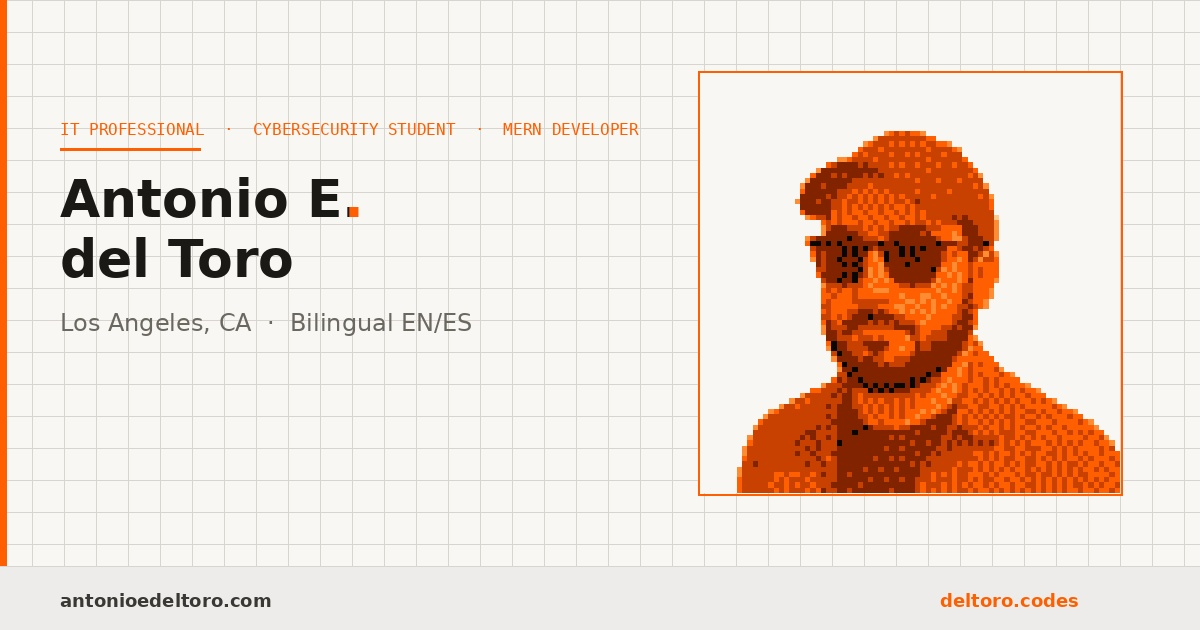
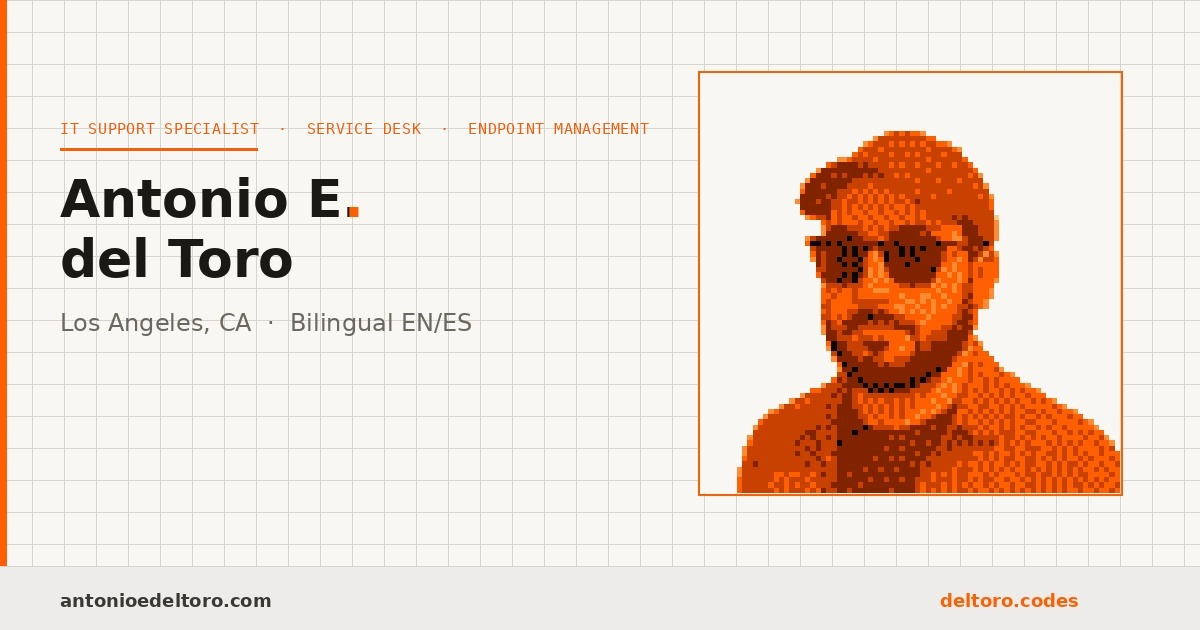
Reposition site around IT support
Hero, About, availability bar and contact now present an IT Support
Specialist (service desk, desktop support, endpoint management).
Cybersecurity credentials stay as supporting detail; SOC/transition
framing and the freelance call to action are gone. Experience moves
above Certifications and Projects. Title, meta, OG/Twitter, JSON-LD
and og-image updated. Date ranges use en dashes.

Claude-Session: https://claude.ai/code/session_01Sn67QX89jFAxY2Vq3Si2Kw

Changed region(s): [[0.0617, 0.181, 0.555, 0.2413]]

diff --git a/index.html b/index.html
@@ -8,10 +8,10 @@
 <meta http-equiv="Content-Security-Policy" content="default-src 'none'; script-src 'self'; style-src 'self'; font-src 'self'; img-src 'self' data:; manifest-src 'self'; form-action 'self'; base-uri 'none'; object-src 'none'; frame-src 'none'; worker-src 'none'; require-trusted-types-for 'script'; trusted-types 'none'; upgrade-insecure-requests">
 <meta name="referrer" content="strict-origin-when-cross-origin">
 
-<title>Antonio E. del Toro | IT Professional & Cybersecurity Student</title>
+<title>Antonio E. del Toro | IT Support Specialist in Los Angeles</title>
 
 <!-- Primary Meta -->
-<meta name="description" content="Antonio E. del Toro: bilingual IT professional, cybersecurity student, and self-taught MERN developer based in Los Angeles, CA.">
+<meta name="description" content="Antonio E. del Toro: bilingual IT Support Specialist in Los Angeles. Service desk, desktop support, and endpoint management. CompTIA A+, Network+, Security+, ITIL 4.">
 <meta name="author" content="Antonio E. del Toro">
 <meta name="robots" content="index, follow">
 <link rel="canonical" href="https://www.antonioedeltoro.com">
@@ -19,8 +19,8 @@
 <!-- Open Graph (Facebook, LinkedIn) -->
 <meta property="og:type" content="website">
 <meta property="og:url" content="https://www.antonioedeltoro.com">
-<meta property="og:title" content="Antonio E. del Toro | IT Professional & Cybersecurity Student">
-<meta property="og:description" content="Bilingual IT professional, cybersecurity student, and self-taught MERN developer based in Los Angeles, CA.">
+<meta property="og:title" content="Antonio E. del Toro | IT Support Specialist in Los Angeles">
+<meta property="og:description" content="Bilingual IT Support Specialist in Los Angeles. Service desk, desktop support, and endpoint management. CompTIA A+, Network+, Security+, ITIL 4.">
 <meta property="og:image" content="https://www.antonioedeltoro.com/og-image.jpg">
 <meta property="og:image:width" content="1200">
 <meta property="og:image:height" content="630">
@@ -30,8 +30,8 @@
 <!-- Twitter Card -->
 <meta name="twitter:card" content="summary_large_image">
 <meta name="twitter:url" content="https://www.antonioedeltoro.com">
-<meta name="twitter:title" content="Antonio E. del Toro | IT Professional & Cybersecurity Student">
-<meta name="twitter:description" content="Bilingual IT professional, cybersecurity student, and self-taught MERN developer based in Los Angeles, CA.">
+<meta name="twitter:title" content="Antonio E. del Toro | IT Support Specialist in Los Angeles">
+<meta name="twitter:description" content="Bilingual IT Support Specialist in Los Angeles. Service desk, desktop support, and endpoint management. CompTIA A+, Network+, Security+, ITIL 4.">
 <meta name="twitter:image" content="https://www.antonioedeltoro.com/og-image.jpg">
 <meta name="twitter:creator" content="@antonioedeltoro">
 
@@ -43,8 +43,8 @@
   "name": "Antonio E. del Toro",
   "url": "https://www.antonioedeltoro.com",
   "image": "https://www.antonioedeltoro.com/og-image.jpg",
-  "jobTitle": "IT Professional & Cybersecurity Student",
-  "description": "Bilingual IT professional, cybersecurity student, and self-taught MERN developer based in Los Angeles, CA.",
+  "jobTitle": "IT Support Specialist",
+  "description": "Bilingual IT Support Specialist in Los Angeles. Service desk, desktop support, and endpoint management. CompTIA A+, Network+, Security+, ITIL 4.",
   "address": {
     "@type": "PostalAddress",
     "addressLocality": "Los Angeles",
@@ -96,7 +96,7 @@
 
 <div class="avail-bar">
   <div class="avail-dot"></div>
-  <span><span class="t" data-l="en">Transitioning into cybersecurity · open to entry-level sec roles and freelance work</span><span class="t" data-l="es">En transición hacia la ciberseguridad · abierto a puestos de seguridad de nivel inicial y trabajo freelance</span></span>
+  <span><span class="t" data-l="en">Open to IT Support, Service Desk, Desktop Support, and Endpoint Support roles · Greater Los Angeles · On-site, hybrid, or remote</span><span class="t" data-l="es">Disponible para puestos de Soporte de TI, Mesa de Servicio, Soporte de Escritorio y Soporte de Endpoints · Gran Los Ángeles · Presencial, híbrido o remoto</span></span>
 </div>
 
 <div id="site-nav"></div>
@@ -107,7 +107,7 @@
     <div class="container">
       <div class="hero-inner">
         <div class="hero-text">
-          <div class="hero-tag"><span class="t" data-l="en">IT Professional · Cybersecurity Student · MERN Developer</span><span class="t" data-l="es">Profesional de TI · Estudiante de Ciberseguridad · Desarrollador MERN</span></div>
+          <div class="hero-tag"><span class="t" data-l="en">IT Support Specialist · Service Desk · Endpoint Management</span><span class="t" data-l="es">Especialista en Soporte de TI · Mesa de Servicio · Gestión de Endpoints</span></div>
           <h1><span class="t" data-l="en">Breaking things down,<br>then <em>building them better.</em></span><span class="t" data-l="es">Desarmando las cosas,<br>para luego <em>construirlas mejor.</em></span></h1>
           <div class="hero-image-mobile-wrap">
             <div class="hero-image-wrap">
@@ -115,9 +115,9 @@
               <div class="scanline"></div>
             </div>
           </div>
-          <p class="hero-sub"><span class="t" data-l="en">I'm Antonio, a bilingual IT professional and self-taught developer with a thing for how systems work under the hood. I support the people and systems that keep organizations running, I build for the web, and I'm deep into cybersecurity.</span><span class="t" data-l="es">Soy Antonio, un profesional de TI bilingüe y desarrollador autodidacta al que le fascina cómo funcionan los sistemas por dentro. Doy soporte a las personas y los sistemas que mantienen en marcha a las organizaciones, desarrollo para la web y estoy de lleno en la ciberseguridad.</span></p>
+          <p class="hero-sub"><span class="t" data-l="en">I'm Antonio, a bilingual IT Support Specialist in Los Angeles. Most recently I worked the service desk for Public Storage, supporting about 6,000 locations: ServiceNow queues, endpoint management in Cisco Meraki Systems Manager and Tanium, and site rollouts for a 1,000-location acquisition. I also build for the web.</span><span class="t" data-l="es">Soy Antonio, especialista bilingüe en soporte de TI en Los Ángeles. Mi puesto más reciente fue en la mesa de servicio de Public Storage, dando soporte a unas 6,000 ubicaciones: colas de ServiceNow, gestión de endpoints con Cisco Meraki Systems Manager y Tanium, y la puesta en marcha de sitios para una adquisición de 1,000 ubicaciones. También desarrollo para la web.</span></p>
           <div class="hero-actions">
-            <a href="#projects" class="btn-primary"><span class="t" data-l="en">See my work <i class="ti ti-arrow-down"></i></span><span class="t" data-l="es">Ver mi trabajo <i class="ti ti-arrow-down"></i></span></a>
+            <a href="#experience" class="btn-primary"><span class="t" data-l="en">See my experience <i class="ti ti-arrow-down"></i></span><span class="t" data-l="es">Ver mi experiencia <i class="ti ti-arrow-down"></i></span></a>
             <a href="#contact" class="btn-secondary"><span class="t" data-l="en">Get in touch <i class="ti ti-arrow-down"></i></span><span class="t" data-l="es">Contáctame <i class="ti ti-arrow-down"></i></span></a>
           </div>
         </div>
@@ -140,10 +140,29 @@
       <div class="about-grid">
         <div class="about-text fade-in">
           <p><span class="t" data-l="en">I got into tech the way most self-taught people do: by breaking something and refusing to stop until I understood why. Before IT, I spent over a decade as a Certified Court Interpreter in Chicago, navigating high-pressure environments where clarity and accuracy weren't optional. That discipline carried over.</span><span class="t" data-l="es">Entré en la tecnología como la mayoría de los autodidactas: rompiendo algo y negándome a parar hasta entender por qué. Antes de TI, pasé más de una década como Intérprete Judicial Certificado en Chicago, desenvolviéndome en entornos de alta presión donde la claridad y la precisión no eran opcionales. Esa disciplina me acompañó.</span></p>
-          <p><span class="t" data-l="en">It led to CompTIA certifications, a freelance web dev practice under <a href="https://www.deltoro.codes" target="_blank" rel="noopener">deltoro.codes</a>, and eventually a service desk role supporting users and systems in corporate environments. Now I'm channeling that same curiosity into cybersecurity and information assurance.</span><span class="t" data-l="es">Me llevó a certificaciones de CompTIA, a una práctica freelance de desarrollo web bajo <a href="https://www.deltoro.codes" target="_blank" rel="noopener">deltoro.codes</a>, y con el tiempo a un puesto en la mesa de servicio dando soporte a usuarios y sistemas en entornos corporativos. Ahora canalizo esa misma curiosidad hacia la ciberseguridad y la seguridad de la información.</span></p>
-          <p><span class="t" data-l="en">I believe the best security people are the ones who've sat on both sides. If you've built things, you know how they break. Based in Los Angeles. Bilingual in English and Spanish.</span><span class="t" data-l="es">Creo que las mejores personas en seguridad son las que han estado en ambos lados. Quien ha construido cosas sabe cómo se rompen. Radicado en Los Ángeles. Bilingüe en inglés y español.</span></p>
+          <p><span class="t" data-l="en">It led to CompTIA certifications, a web development practice under <a href="https://www.deltoro.codes" target="_blank" rel="noopener">deltoro.codes</a>, and IT support. As a Service Desk Analyst for Public Storage, I worked ServiceNow incident and request queues under ITIL-aligned processes, 16 to 30 tickets a day, consistently meeting SLA targets. I administered devices in Cisco Meraki Systems Manager, deployed software, drivers, and patches through Tanium, and triaged Okta SSO access issues, verifying identity before escalating.</span><span class="t" data-l="es">Me llevó a certificaciones de CompTIA, a una práctica de desarrollo web bajo <a href="https://www.deltoro.codes" target="_blank" rel="noopener">deltoro.codes</a> y al soporte de TI. Como Analista de Mesa de Servicio para Public Storage, atendí colas de incidentes y solicitudes en ServiceNow bajo procesos alineados con ITIL, de 16 a 30 tickets al día, cumpliendo de forma constante los objetivos de SLA. Administré dispositivos en Cisco Meraki Systems Manager, desplegué software, controladores y parches con Tanium, e hice el triage de problemas de acceso en Okta SSO, verificando la identidad antes de escalar.</span></p>
+          <p><span class="t" data-l="en">Before that, at FUJIFILM Business Innovation, I handled onboarding and offboarding, account provisioning and access revocation, and SAP Concur, SharePoint, DocuSign, and mobile device support. My Security+ and CSIS certifications, and the BS in Cybersecurity and Information Assurance I'm completing at WGU (expected April 2027), shape how I support users: verify first, document everything. Based in Los Angeles. Native bilingual in English and Spanish.</span><span class="t" data-l="es">Antes, en FUJIFILM Business Innovation, me encargué de altas y bajas de personal, aprovisionamiento de cuentas y revocación de accesos, y soporte de SAP Concur, SharePoint, DocuSign y dispositivos móviles. Mis certificaciones Security+ y CSIS, y la licenciatura en Ciberseguridad y Seguridad de la Información que curso en WGU (prevista para abril de 2027), definen cómo doy soporte: primero verificar, documentarlo todo. Radicado en Los Ángeles. Bilingüe nativo en inglés y español.</span></p>
         </div>
         <div class="skills-block fade-in">
+          <div>
+            <div class="skill-group-label"><span class="t" data-l="en">Support & Endpoints</span><span class="t" data-l="es">Soporte y Endpoints</span></div>
+            <div class="skill-tags">
+              <span class="skill-tag"><span class="t" data-l="en">Help Desk</span><span class="t" data-l="es">Mesa de ayuda</span></span>
+              <span class="skill-tag">ServiceNow</span>
+              <span class="skill-tag">Cisco Meraki Systems Manager</span>
+              <span class="skill-tag">Tanium</span>
+              <span class="skill-tag"><span class="t" data-l="en">Endpoint management</span><span class="t" data-l="es">Gestión de endpoints</span></span>
+              <span class="skill-tag"><span class="t" data-l="en">Mobile device support</span><span class="t" data-l="es">Soporte de dispositivos móviles</span></span>
+              <span class="skill-tag">Okta SSO</span>
+              <span class="skill-tag"><span class="t" data-l="en">POS &amp; payment systems</span><span class="t" data-l="es">POS y sistemas de pago</span></span>
+              <span class="skill-tag">Microsoft 365</span>
+              <span class="skill-tag">SAP Concur</span>
+              <span class="skill-tag">SharePoint</span>
+              <span class="skill-tag">DocuSign</span>
+              <span class="skill-tag"><span class="t" data-l="en">Ticketing Systems</span><span class="t" data-l="es">Sistemas de tickets</span></span>
+              <span class="skill-tag"><span class="t" data-l="en">Onboarding / Offboarding</span><span class="t" data-l="es">Alta / Baja de usuarios</span></span>
+            </div>
+          </div>
           <div>
             <div class="skill-group-label"><span class="t" data-l="en">Networking & Security</span><span class="t" data-l="es">Redes y Seguridad</span></div>
             <div class="skill-tags">
@@ -158,20 +177,10 @@
               <span class="skill-tag">DNS</span>
               <span class="skill-tag">DHCP</span>
               <span class="skill-tag">VPN</span>
+              <span class="skill-tag">Cisco Meraki</span>
+              <span class="skill-tag">VMware VeloCloud SD-WAN</span>
               <span class="skill-tag"><span class="t" data-l="en">Access management</span><span class="t" data-l="es">Gestión de accesos</span></span>
               <span class="skill-tag"><span class="t" data-l="en">Network troubleshooting</span><span class="t" data-l="es">Resolución de problemas de red</span></span>
-            </div>
-          </div>
-          <div>
-            <div class="skill-group-label"><span class="t" data-l="en">Support & Ops</span><span class="t" data-l="es">Soporte y Operaciones</span></div>
-            <div class="skill-tags">
-              <span class="skill-tag"><span class="t" data-l="en">Help Desk</span><span class="t" data-l="es">Mesa de ayuda</span></span>
-              <span class="skill-tag">Microsoft 365</span>
-              <span class="skill-tag">SAP Concur</span>
-              <span class="skill-tag">SharePoint</span>
-              <span class="skill-tag">DocuSign</span>
-              <span class="skill-tag"><span class="t" data-l="en">Ticketing Systems</span><span class="t" data-l="es">Sistemas de tickets</span></span>
-              <span class="skill-tag"><span class="t" data-l="en">Onboarding / Offboarding</span><span class="t" data-l="es">Alta / Baja de usuarios</span></span>
             </div>
           </div>
           <div>
@@ -193,6 +202,73 @@
               <span class="skill-tag"><span class="t" data-l="en">English (native)</span><span class="t" data-l="es">Inglés (nativo)</span></span>
               <span class="skill-tag"><span class="t" data-l="en">Spanish (native)</span><span class="t" data-l="es">Español (nativo)</span></span>
             </div>
+          </div>
+        </div>
+      </div>
+    </div>
+  </section>
+
+  <!-- EXPERIENCE -->
+  <section id="experience">
+    <div class="container">
+      <div class="section-header">
+        <h2 class="section-title"><span class="t" data-l="en">Experience</span><span class="t" data-l="es">Experiencia</span></h2>
+      </div>
+      <div class="experience-list">
+        <div class="exp-item fade-in">
+          <div class="exp-date"><span class="t" data-l="en">2024 – Present</span><span class="t" data-l="es">2024 – Presente</span></div>
+          <div>
+            <h3 class="exp-role"><span class="t" data-l="en">Full-Stack Web Developer</span><span class="t" data-l="es">Desarrollador Web Full-Stack</span></h3>
+            <div class="exp-company"><span class="t" data-l="en">deltoro.codes · Remote</span><span class="t" data-l="es">deltoro.codes · Remoto</span></div>
+            <ul class="exp-bullets">
+              <li><span class="t" data-l="en">Build and maintain full-stack web applications for clients using the MERN stack</span><span class="t" data-l="es">Desarrollo y mantengo aplicaciones web full-stack para clientes usando el stack MERN</span></li>
+              <li><span class="t" data-l="en">Troubleshoot website, hosting, and user-related issues across client projects</span><span class="t" data-l="es">Resuelvo problemas de sitios web, hosting y usuarios en los proyectos de clientes</span></li>
+              <li><span class="t" data-l="en">Guide clients through system workflows and create documentation to reduce repeat issues</span><span class="t" data-l="es">Guío a los clientes por los flujos de trabajo del sistema y creo documentación para reducir problemas recurrentes</span></li>
+              <li><span class="t" data-l="en">Diagnose technical issues independently using documentation and online resources</span><span class="t" data-l="es">Diagnostico problemas técnicos de forma independiente usando documentación y recursos en línea</span></li>
+            </ul>
+          </div>
+        </div>
+        <div class="exp-item fade-in">
+          <div class="exp-date"><span class="t" data-l="en">May 2026 – Oct 2026</span><span class="t" data-l="es">mayo 2026 – octubre 2026</span></div>
+          <div>
+            <h3 class="exp-role"><span class="t" data-l="en">Service Desk Analyst</span><span class="t" data-l="es">Analista de Mesa de Servicio</span></h3>
+            <div class="exp-company"><span class="t" data-l="en">Thunderhawk Technology Partners · Contract · Glendale, CA · Onsite &rarr; Remote</span><span class="t" data-l="es">Thunderhawk Technology Partners · Contrato · Glendale, CA · Presencial &rarr; Remoto</span></div>
+            <ul class="exp-bullets">
+              <li><span class="t" data-l="en">Supported about 6,000 Public Storage locations, including the integration of about 1,000 acquired locations</span><span class="t" data-l="es">Di soporte a unas 6,000 ubicaciones de Public Storage, incluida la integración de unas 1,000 ubicaciones adquiridas</span></li>
+              <li><span class="t" data-l="en">Worked ServiceNow incident and request queues under ITIL-aligned processes, 16 to 30 tickets a day, consistently meeting SLA targets</span><span class="t" data-l="es">Atendí colas de incidentes y solicitudes en ServiceNow bajo procesos alineados con ITIL, de 16 a 30 tickets al día, cumpliendo de forma constante los objetivos de SLA</span></li>
+              <li><span class="t" data-l="en">Triaged first-line authentication and access issues in an Okta SSO environment, verifying identity and isolating password state, MFA factor, or app assignment before escalating with documented findings</span><span class="t" data-l="es">Realicé el triage de primer nivel de problemas de autenticación y acceso en un entorno Okta SSO, verificando la identidad y aislando el estado de la contraseña, el factor MFA o la asignación de aplicaciones antes de escalar con hallazgos documentados</span></li>
+              <li><span class="t" data-l="en">Administered devices in Cisco Meraki Systems Manager (enrollment, configuration profiles, app updates) and deployed software, drivers, and patches through Tanium</span><span class="t" data-l="es">Administré dispositivos en Cisco Meraki Systems Manager (inscripción, perfiles de configuración, actualizaciones de aplicaciones) y desplegué software, controladores y parches con Tanium</span></li>
+              <li><span class="t" data-l="en">Owned end-to-end site readiness for 18 locations in phase one of a 1,000-site acquisition integration, coordinating network, workstation, and PCI DSS-scoped payment hardware installs</span><span class="t" data-l="es">Gestioné de principio a fin la preparación de 18 ubicaciones en la primera fase de una integración de 1,000 sitios adquiridos, coordinando la instalación de hardware de red, estaciones de trabajo y pagos en un entorno de alcance PCI DSS</span></li>
+              <li><span class="t" data-l="en">Coordinated access point installs across 150 properties in phase two of the integration</span><span class="t" data-l="es">Coordiné la instalación de puntos de acceso en 150 propiedades durante la segunda fase de la integración</span></li>
+              <li><span class="t" data-l="en">Supported POS terminals, registers, and payment gateways in a PCI DSS-scoped environment, along with Cisco Meraki networking and VMware VeloCloud SD-WAN across distributed sites</span><span class="t" data-l="es">Di soporte a terminales POS, cajas registradoras y pasarelas de pago en un entorno de alcance PCI DSS, además de redes Cisco Meraki y VMware VeloCloud SD-WAN en sitios distribuidos</span></li>
+            </ul>
+          </div>
+        </div>
+        <div class="exp-item fade-in">
+          <div class="exp-date">2022 – 2023</div>
+          <div>
+            <h3 class="exp-role"><span class="t" data-l="en">Executive Administrative Assistant</span><span class="t" data-l="es">Asistente Administrativo Ejecutivo</span></h3>
+            <div class="exp-company"><span class="t" data-l="en">FUJIFILM Business Innovation Corp. · Hanover Park, IL · Hybrid &rarr; Remote</span><span class="t" data-l="es">FUJIFILM Business Innovation Corp. · Hanover Park, IL · Híbrido &rarr; Remoto</span></div>
+            <ul class="exp-bullets">
+              <li><span class="t" data-l="en">Handled onboarding and offboarding with IT and HR, including account provisioning and access revocation</span><span class="t" data-l="es">Gestioné altas y bajas de personal junto con TI y Recursos Humanos, incluido el aprovisionamiento de cuentas y la revocación de accesos</span></li>
+              <li><span class="t" data-l="en">Troubleshot SAP Concur access and user issues in a high-volume corporate environment</span><span class="t" data-l="es">Resolví problemas de acceso y de usuarios en SAP Concur en un entorno corporativo de alto volumen</span></li>
+              <li><span class="t" data-l="en">Supported SharePoint, DocuSign, and internal tools across the organization</span><span class="t" data-l="es">Di soporte a SharePoint, DocuSign y herramientas internas en toda la organización</span></li>
+              <li><span class="t" data-l="en">Provided mobile device support for staff</span><span class="t" data-l="es">Brindé soporte de dispositivos móviles al personal</span></li>
+              <li><span class="t" data-l="en">Resolved user access and reporting discrepancies in expense management systems</span><span class="t" data-l="es">Resolví discrepancias de acceso de usuarios y de reportes en sistemas de gestión de gastos</span></li>
+            </ul>
+          </div>
+        </div>
+        <div class="exp-item fade-in">
+          <div class="exp-date">2013 – 2022</div>
+          <div>
+            <h3 class="exp-role"><span class="t" data-l="en">Certified Court Interpreter</span><span class="t" data-l="es">Intérprete Judicial Certificado</span></h3>
+            <div class="exp-company"><span class="t" data-l="en">Cook County Office of the Chief Judge · Chicago, IL · Onsite &rarr; Hybrid</span><span class="t" data-l="es">Cook County Office of the Chief Judge · Chicago, IL · Presencial &rarr; Híbrido</span></div>
+            <ul class="exp-bullets">
+              <li><span class="t" data-l="en">Provided precise English/Spanish interpretation across criminal, civil, and family court proceedings</span><span class="t" data-l="es">Proporcioné interpretación precisa inglés/español en procedimientos judiciales penales, civiles y de familia</span></li>
+              <li><span class="t" data-l="en">Maintained strict confidentiality, impartiality, and accuracy in high-pressure legal environments</span><span class="t" data-l="es">Mantuve estricta confidencialidad, imparcialidad y precisión en entornos legales de alta presión</span></li>
+              <li><span class="t" data-l="en">Facilitated clear communication between Spanish-speaking individuals and the judicial system</span><span class="t" data-l="es">Facilité la comunicación clara entre personas hispanohablantes y el sistema judicial</span></li>
+              <li><span class="t" data-l="en">Illinois Supreme Court Certified · <a href="https://publicapps.illinoiscourts.gov/apex/f?p=303:18:::::P18_IDINTERPRETER,P18_READMODE:183,1" target="_blank" rel="noopener" class="credential-link">Credential #1190</a> · occasional assignments accepted</span><span class="t" data-l="es">Certificado por la Corte Suprema de Illinois · <a href="https://publicapps.illinoiscourts.gov/apex/f?p=303:18:::::P18_IDINTERPRETER,P18_READMODE:183,1" target="_blank" rel="noopener" class="credential-link">Credencial n.º 1190</a> · acepto asignaciones ocasionales</span></li>
+            </ul>
           </div>
         </div>
       </div>
@@ -377,70 +453,6 @@
     </div>
   </section>
 
-  <!-- EXPERIENCE -->
-  <section id="experience">
-    <div class="container">
-      <div class="section-header">
-        <h2 class="section-title"><span class="t" data-l="en">Experience</span><span class="t" data-l="es">Experiencia</span></h2>
-      </div>
-      <div class="experience-list">
-        <div class="exp-item fade-in">
-          <div class="exp-date"><span class="t" data-l="en">2024 — Present</span><span class="t" data-l="es">2024 — Presente</span></div>
-          <div>
-            <h3 class="exp-role"><span class="t" data-l="en">Full-Stack Web Developer</span><span class="t" data-l="es">Desarrollador Web Full-Stack</span></h3>
-            <div class="exp-company"><span class="t" data-l="en">deltoro.codes · Remote</span><span class="t" data-l="es">deltoro.codes · Remoto</span></div>
-            <ul class="exp-bullets">
-              <li><span class="t" data-l="en">Build and maintain full-stack web applications for clients using the MERN stack</span><span class="t" data-l="es">Desarrollo y mantengo aplicaciones web full-stack para clientes usando el stack MERN</span></li>
-              <li><span class="t" data-l="en">Troubleshoot website, hosting, and user-related issues across client projects</span><span class="t" data-l="es">Resuelvo problemas de sitios web, hosting y usuarios en los proyectos de clientes</span></li>
-              <li><span class="t" data-l="en">Guide clients through system workflows and create documentation to reduce repeat issues</span><span class="t" data-l="es">Guío a los clientes por los flujos de trabajo del sistema y creo documentación para reducir problemas recurrentes</span></li>
-              <li><span class="t" data-l="en">Diagnose technical issues independently using documentation and online resources</span><span class="t" data-l="es">Diagnostico problemas técnicos de forma independiente usando documentación y recursos en línea</span></li>
-            </ul>
-          </div>
-        </div>
-        <div class="exp-item fade-in">
-          <div class="exp-date"><span class="t" data-l="en">May 2026 — Oct 2026</span><span class="t" data-l="es">mayo 2026 — octubre 2026</span></div>
-          <div>
-            <h3 class="exp-role"><span class="t" data-l="en">Service Desk Analyst</span><span class="t" data-l="es">Analista de Mesa de Servicio</span></h3>
-            <div class="exp-company"><span class="t" data-l="en">Thunderhawk Technology Partners · Contract · Glendale, CA · Onsite &rarr; Remote</span><span class="t" data-l="es">Thunderhawk Technology Partners · Contrato · Glendale, CA · Presencial &rarr; Remoto</span></div>
-            <ul class="exp-bullets">
-              <li><span class="t" data-l="en">Triaged first-line authentication and access issues in an Okta SSO environment for Public Storage, isolating password, MFA, or app-assignment root cause before escalating with documented findings</span><span class="t" data-l="es">Realicé el triage de primer nivel de problemas de autenticación y acceso en un entorno Okta SSO para Public Storage, aislando la causa raíz (contraseña, MFA o asignación de aplicaciones) antes de escalar con hallazgos documentados</span></li>
-              <li><span class="t" data-l="en">Verified user identity against policy before credential and MFA resets to harden the service desk against social engineering, and remediated endpoints via Tanium across a distributed environment</span><span class="t" data-l="es">Verifiqué la identidad del usuario según la política antes de restablecer credenciales y MFA para reforzar la mesa de servicio contra la ingeniería social, y remedié endpoints con Tanium en un entorno distribuido</span></li>
-              <li><span class="t" data-l="en">Owned end-to-end site readiness for 18 locations in phase one of a 1,000-site acquisition integration, coordinating network, workstation, and PCI DSS-scoped payment hardware installs</span><span class="t" data-l="es">Gestioné de principio a fin la preparación de 18 ubicaciones en la primera fase de una integración de 1,000 sitios adquiridos, coordinando la instalación de hardware de red, estaciones de trabajo y pagos en un entorno de alcance PCI DSS</span></li>
-              <li><span class="t" data-l="en">Coordinated access point installs across 150 properties in phase two of the integration</span><span class="t" data-l="es">Coordiné la instalación de puntos de acceso en 150 propiedades durante la segunda fase de la integración</span></li>
-              <li><span class="t" data-l="en">Managed ServiceNow incident and service-request queues under ITIL-aligned processes, supporting Cisco Meraki and VMware VeloCloud SD-WAN across distributed retail sites</span><span class="t" data-l="es">Administré las colas de incidentes y solicitudes de servicio en ServiceNow bajo procesos alineados con ITIL, dando soporte a Cisco Meraki y VMware VeloCloud SD-WAN en sitios minoristas distribuidos</span></li>
-            </ul>
-          </div>
-        </div>
-        <div class="exp-item fade-in">
-          <div class="exp-date">2022 — 2023</div>
-          <div>
-            <h3 class="exp-role"><span class="t" data-l="en">Executive Administrative Assistant to the CEO</span><span class="t" data-l="es">Asistente Administrativo Ejecutivo del CEO</span></h3>
-            <div class="exp-company"><span class="t" data-l="en">FUJIFILM Business Innovation Corp. · Hanover Park, IL · Hybrid &rarr; Remote</span><span class="t" data-l="es">FUJIFILM Business Innovation Corp. · Hanover Park, IL · Híbrido &rarr; Remoto</span></div>
-            <ul class="exp-bullets">
-              <li><span class="t" data-l="en">Coordinated onboarding/offboarding and system access with IT and HR</span><span class="t" data-l="es">Coordiné altas y bajas de personal y accesos a sistemas junto con TI y Recursos Humanos</span></li>
-              <li><span class="t" data-l="en">Troubleshot SAP Concur access and user issues in a high-volume corporate environment</span><span class="t" data-l="es">Resolví problemas de acceso y de usuarios en SAP Concur en un entorno corporativo de alto volumen</span></li>
-              <li><span class="t" data-l="en">Supported SharePoint, DocuSign, and internal tools across the organization</span><span class="t" data-l="es">Di soporte a SharePoint, DocuSign y herramientas internas en toda la organización</span></li>
-              <li><span class="t" data-l="en">Resolved user access and reporting discrepancies in expense management systems</span><span class="t" data-l="es">Resolví discrepancias de acceso de usuarios y de reportes en sistemas de gestión de gastos</span></li>
-            </ul>
-          </div>
-        </div>
-        <div class="exp-item fade-in">
-          <div class="exp-date">2013 — 2022</div>
-          <div>
-            <h3 class="exp-role"><span class="t" data-l="en">Certified Court Interpreter</span><span class="t" data-l="es">Intérprete Judicial Certificado</span></h3>
-            <div class="exp-company"><span class="t" data-l="en">Cook County Office of the Chief Judge · Chicago, IL · Onsite &rarr; Hybrid</span><span class="t" data-l="es">Cook County Office of the Chief Judge · Chicago, IL · Presencial &rarr; Híbrido</span></div>
-            <ul class="exp-bullets">
-              <li><span class="t" data-l="en">Provided precise English/Spanish interpretation across criminal, civil, and family court proceedings</span><span class="t" data-l="es">Proporcioné interpretación precisa inglés/español en procedimientos judiciales penales, civiles y de familia</span></li>
-              <li><span class="t" data-l="en">Maintained strict confidentiality, impartiality, and accuracy in high-pressure legal environments</span><span class="t" data-l="es">Mantuve estricta confidencialidad, imparcialidad y precisión en entornos legales de alta presión</span></li>
-              <li><span class="t" data-l="en">Facilitated clear communication between Spanish-speaking individuals and the judicial system</span><span class="t" data-l="es">Facilité la comunicación clara entre personas hispanohablantes y el sistema judicial</span></li>
-              <li><span class="t" data-l="en">Illinois Supreme Court Certified · <a href="https://publicapps.illinoiscourts.gov/apex/f?p=303:18:::::P18_IDINTERPRETER,P18_READMODE:183,1" target="_blank" rel="noopener" class="credential-link">Credential #1190</a> · occasional assignments accepted</span><span class="t" data-l="es">Certificado por la Corte Suprema de Illinois · <a href="https://publicapps.illinoiscourts.gov/apex/f?p=303:18:::::P18_IDINTERPRETER,P18_READMODE:183,1" target="_blank" rel="noopener" class="credential-link">Credencial n.º 1190</a> · acepto asignaciones ocasionales</span></li>
-            </ul>
-          </div>
-        </div>
-      </div>
-    </div>
-  </section>
-
   <!-- EDUCATION -->
   <section id="education">
     <div class="container">
@@ -449,35 +461,35 @@
       </div>
       <div class="education-list">
         <div class="edu-item fade-in">
-          <div class="edu-date"><span class="t" data-l="en">2025 — 2027 (expected)</span><span class="t" data-l="es">2025 — 2027 (previsto)</span></div>
+          <div class="edu-date"><span class="t" data-l="en">2025 – 2027 (expected)</span><span class="t" data-l="es">2025 – 2027 (previsto)</span></div>
           <div>
             <h3 class="edu-degree"><span class="t" data-l="en">BS, Cybersecurity & Information Assurance</span><span class="t" data-l="es">Lic. en Ciberseguridad y Seguridad de la Información</span></h3>
             <div class="edu-school">Western Governors University</div>
           </div>
         </div>
         <div class="edu-item fade-in">
-          <div class="edu-date">2018 — 2022</div>
+          <div class="edu-date">2018 – 2022</div>
           <div>
             <h3 class="edu-degree"><span class="t" data-l="en">MA, Latin American Literature & Culture</span><span class="t" data-l="es">Maestría en Literatura y Cultura Latinoamericana</span></h3>
             <div class="edu-school">Northeastern Illinois University</div>
           </div>
         </div>
         <div class="edu-item fade-in">
-          <div class="edu-date">2014 — 2017</div>
+          <div class="edu-date">2014 – 2017</div>
           <div>
             <h3 class="edu-degree"><span class="t" data-l="en">BA, Spanish Language & Literature</span><span class="t" data-l="es">Lic. en Lengua y Literatura Española</span></h3>
             <div class="edu-school">Northeastern Illinois University</div>
           </div>
         </div>
         <div class="edu-item fade-in">
-          <div class="edu-date">2011 — 2012</div>
+          <div class="edu-date">2011 – 2012</div>
           <div>
             <h3 class="edu-degree"><span class="t" data-l="en">Certificate, Legal Interpreting</span><span class="t" data-l="es">Certificado en Interpretación Legal</span></h3>
             <div class="edu-school">Waubonsee Community College</div>
           </div>
         </div>
         <div class="edu-item fade-in">
-          <div class="edu-date">2005 — 2006</div>
+          <div class="edu-date">2005 – 2006</div>
           <div>
             <h3 class="edu-degree"><span class="t" data-l="en">Certificate, Web Design & Multimedia</span><span class="t" data-l="es">Certificado en Diseño Web y Multimedia</span></h3>
             <div class="edu-school">Waubonsee Community College</div>
@@ -493,7 +505,7 @@
       <div class="section-header">
         <h2 class="section-title"><span class="t" data-l="en">Contact</span><span class="t" data-l="es">Contacto</span></h2>
       </div>
-      <p class="contact-intro"><span class="t" data-l="en">Let's talk, whether it's a security role, a freelance project, or just to connect.</span><span class="t" data-l="es">Hablemos, ya sea sobre un puesto en seguridad, un proyecto freelance o simplemente para conectar.</span></p>
+      <p class="contact-intro"><span class="t" data-l="en">I'm open to IT Support Specialist, Service Desk Analyst, Desktop Support, and Endpoint Support roles in greater Los Angeles, on-site, hybrid, or remote. Send me a message.</span><span class="t" data-l="es">Estoy disponible para puestos de Especialista en Soporte de TI, Analista de Mesa de Servicio, Soporte de Escritorio y Soporte de Endpoints en el área de Los Ángeles, ya sea presencial, híbrido o remoto. Envíame un mensaje.</span></p>
       <div class="contact-form-wrap">
         <form class="contact-form fade-in">
           <div class="form-row">
@@ -512,7 +524,7 @@
           </div>
           <div class="field">
             <label for="message"><span class="t" data-l="en">Message</span><span class="t" data-l="es">Mensaje</span></label>
-            <textarea id="message" placeholder="Tell me what you're working on..." data-es-ph="Cuéntame en qué estás trabajando..." maxlength="2000" required></textarea>
+            <textarea id="message" placeholder="Tell me about the role..." data-es-ph="Cuéntame sobre el puesto..." maxlength="2000" required></textarea>
           </div>
           <button type="submit" class="form-submit">
             <span class="t" data-l="en">Submit message <i class="ti ti-send"></i></span><span class="t" data-l="es">Enviar mensaje <i class="ti ti-send"></i></span>

diff --git a/chrome.js b/chrome.js
@@ -15,9 +15,9 @@
 
   var LINKS = [
     { frag: 'about',          en: 'about',          es: 'perfil' },
+    { frag: 'experience',     en: 'experience',     es: 'experiencia' },
     { frag: 'certifications', en: 'certifications', es: 'certificaciones' },
     { frag: 'projects',       en: 'projects',       es: 'proyectos' },
-    { frag: 'experience',     en: 'experience',     es: 'experiencia' },
     { frag: 'education',      en: 'education',      es: 'educación' },
     { frag: 'contact',        en: 'contact',        es: 'contacto' }
   ];
